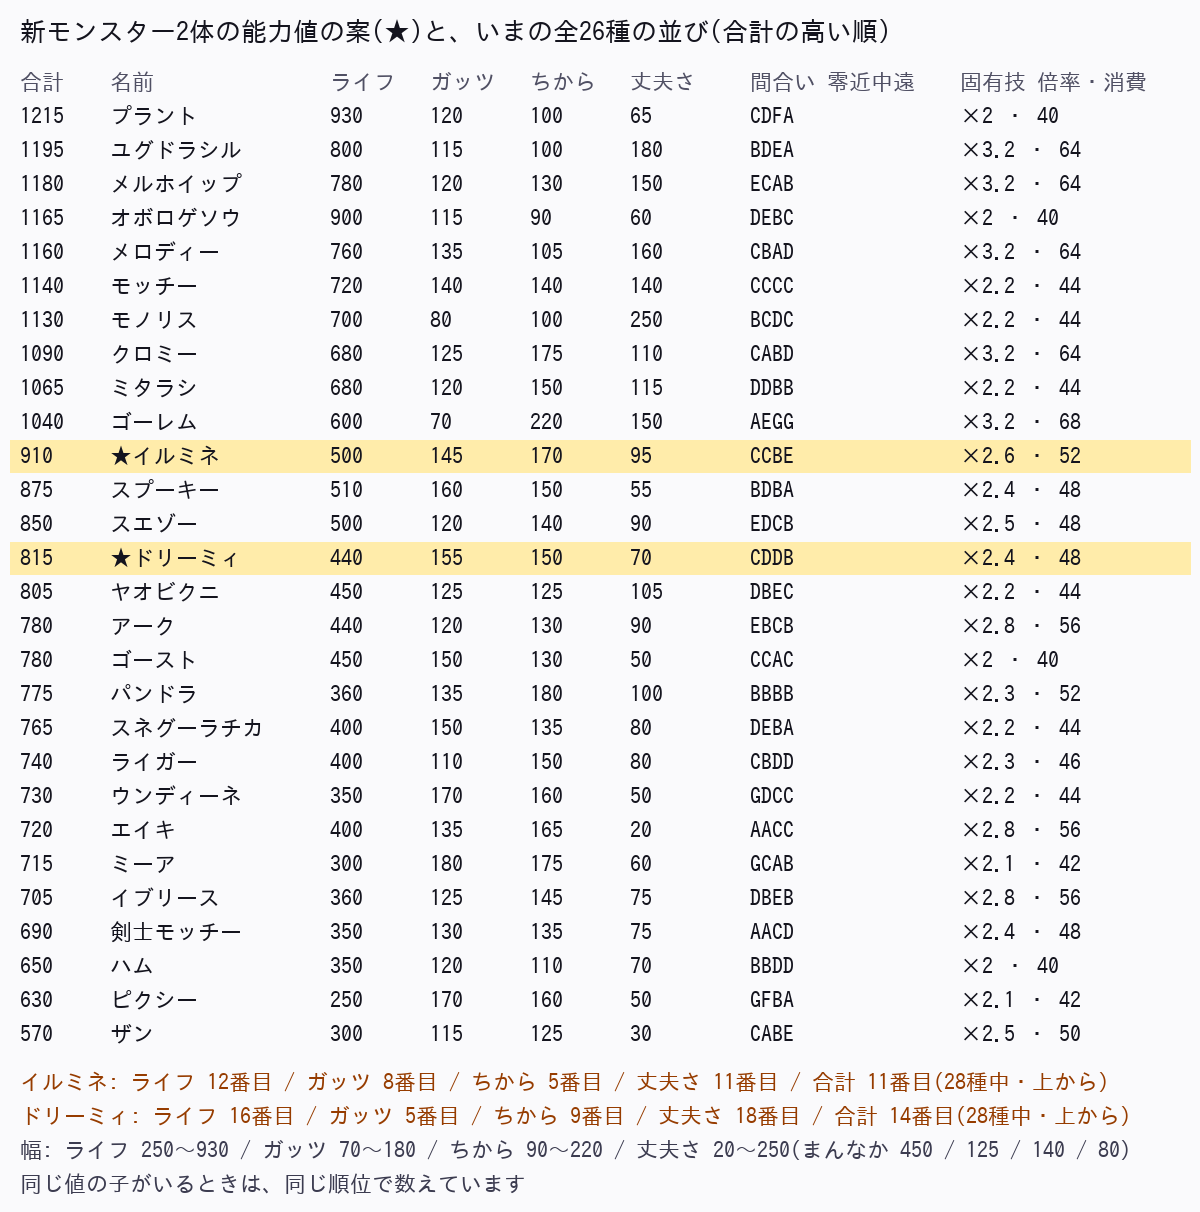
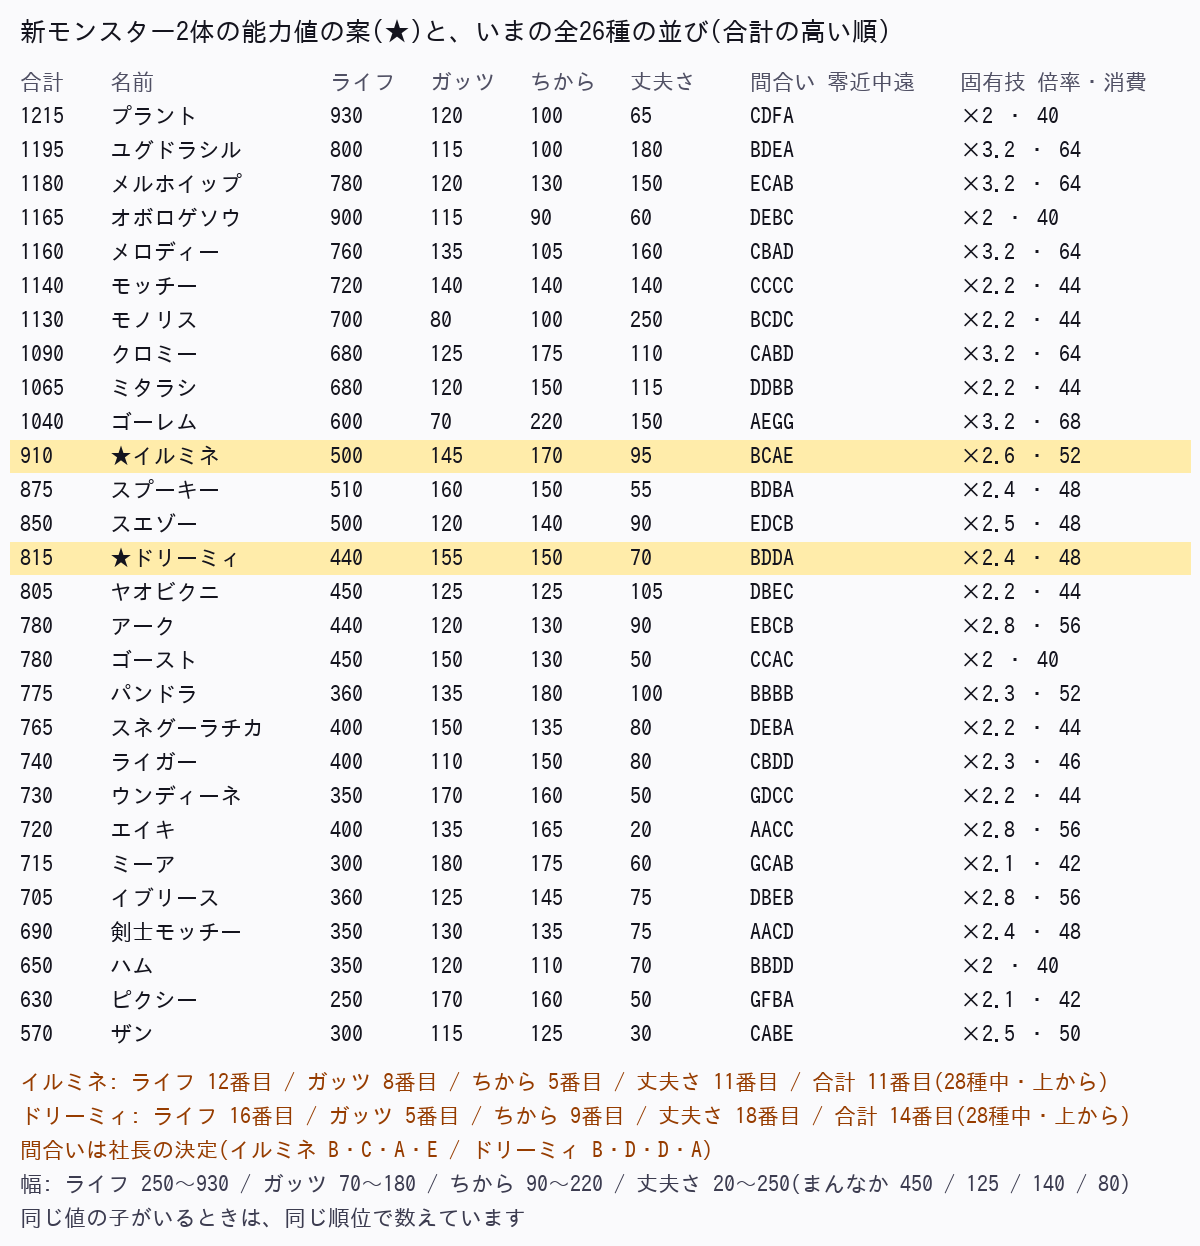
新モンスター2体の材料: 間合い適性を社長の決定に直し、ドリーミィの技名の案を足す
Claude-Session: https://claude.ai/code/session_01VRYhgmPT7CS6iFeyRbpz1p

diff --git a/docs/playbot/reports/2026-10-22/new-monsters/README.md b/docs/playbot/reports/2026-10-22/new-monsters/README.md
@@ -9,7 +9,7 @@
 - 待機アニメ: イルミネは体ごとふわふわ・髪の先がゆらゆら / ドリーミィはゆったり息をする・玉の飾りが揺れる(`idle-*.jpg`)
 - 円盤石アイコン(絵だけ。マーケットの商品は正式実装のときに足す。いま足すと本番に「近日追加」で見えるため)
 - 血統カタログに「イルミネ」「ニャー」(血統アイコンは前から届いていたもの)
-- まだ: 染色の部位分け(社長から部位ごとに色を塗った指示図をもらえるといちばんきれい。無ければこちらで色で分ける案を作る)
+- まだ: 染色(社長「染色マスク イルミネ 5色 ドリーミィ 5色 イメージ見て作ってみて」。5部位の案を作っているところ)
 
 ## 1. 能力値(`stats-table.png`)
 
@@ -25,8 +25,8 @@
 
 | | ライフ | ちから | 丈夫さ | ガッツ | 間合い 零・近・中・遠 |
 | --- | --- | --- | --- | --- | --- |
-| イルミネ | 180 | 45 | 30 | 35 | C・C・B・E(届いた参考のまま) |
-| ドリーミィ | 150 | 40 | 15 | 45 | C・D・D・B(届いた参考のまま) |
+| イルミネ | 180 | 45 | 30 | 35 | **B・C・A・E**(社長の決定) |
+| ドリーミィ | 150 | 40 | 15 | 45 | **B・D・D・A**(社長の決定) |
 
 いまの幅: ライフ 100〜620 / ちから 0〜80 / 丈夫さ 0〜100 / ガッツ 0〜65。
 
@@ -45,15 +45,23 @@
   - 案A「おもちゃの爆弾」: 与ダメージの30%で追撃(爆発)＆敵の被ダメージ+10%(そのWAVEのあいだ・3回まで重なる)
   - 案B「ぬいぐるみの身代わり」: 次の被弾を1回だけ0にする＆最大ガッツの15%回復
 
-## 5. 技の名前(9段)
+## 5. 技の名前(9段・`skill-names.png`)
 
-届いたイルミネの技16個を、消費ガッツ(強さ)の順に並べて割り当てた。
+イルミネは届いた技16個を消費ガッツ(強さ)の順に割り当てた(固有技の7・8段目はこちらの案)。
+ドリーミィは社長「ドリーミィの技はオリジナルや図鑑のイメージで技名少し変えて」で、イルミネの技の形を残して
+おもちゃ・人形・ゆめかわ寄りに変えた(1段目の固有技はドリーミィだけの技「おもちゃの爆弾」)。
 
-- 通常技(2体同じ): プラズマ → ヴェノムエッジ → シールドバッシュ → ストレート → モーニングスター → アサシンクロウ → アサルトアロー → ブレードダンス → バスターソード
-- イルミネの固有技: エーテルアイス → アルカナフレア → アルスマグナ → ノクターン → ミラージュクロウ → クリムゾンノヴァ → ムーンライトヴェール → ルミナスオーロラ → レクイエムエンド
-  (届いた技は7つなので、7段目と8段目の2つはこちらの案)
-- ドリーミィの固有技: おもちゃの爆弾 → わたあめボム → ボタンアイビーム → ぬいぐるみパレード → ドリームクラウド → パステルノクターン → ゆめかわミラージュ → ねむりのクリムゾンノヴァ → ドリーミィ・フィナーレ
-  (1段目がドリーミィだけの技「おもちゃの爆弾」。2段目からはこちらの案)
+| 段 | イルミネ 通常技 | ドリーミィ 通常技 | イルミネ 固有技 | ドリーミィ 固有技 |
+| --- | --- | --- | --- | --- |
+| 1 | プラズマ | ポッププラズマ | エーテルアイス | おもちゃの爆弾 |
+| 2 | ヴェノムエッジ | キャンディエッジ | アルカナフレア | わたあめアイス |
+| 3 | シールドバッシュ | ぬいぐるみバッシュ | アルスマグナ | パステルフレア |
+| 4 | ストレート | ねこパンチストレート | ノクターン | ドリームマグナ |
+| 5 | モーニングスター | ポンポンスター | ミラージュクロウ | ゆめみるノクターン |
+| 6 | アサシンクロウ | ニャーニャークロウ | クリムゾンノヴァ | ミラージュにゃんクロウ |
+| 7 | アサルトアロー | リボンアロー | ムーンライトヴェール | ドリーミィノヴァ |
+| 8 | ブレードダンス | ゆめかわダンス | ルミナスオーロラ | ゆめかわオーロラ |
+| 9 | バスターソード | トイソード | レクイエムエンド | おやすみレクイエム |
 
 ## 6. タイプ(メイン/サブ。サブは必ず付ける)
 
